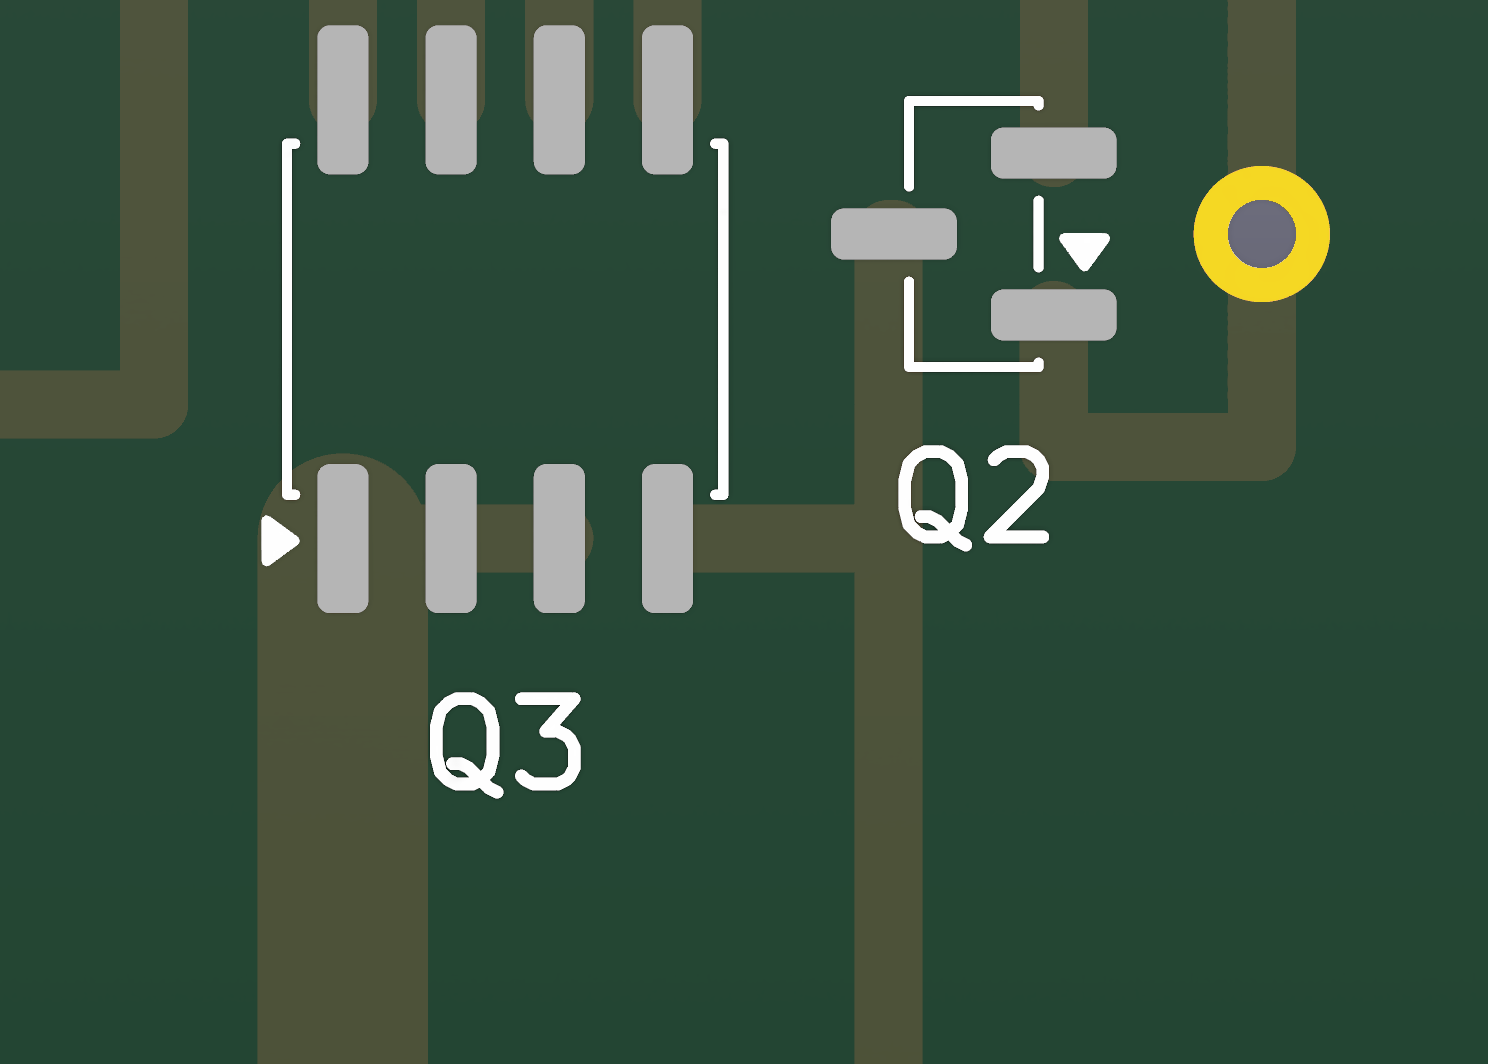
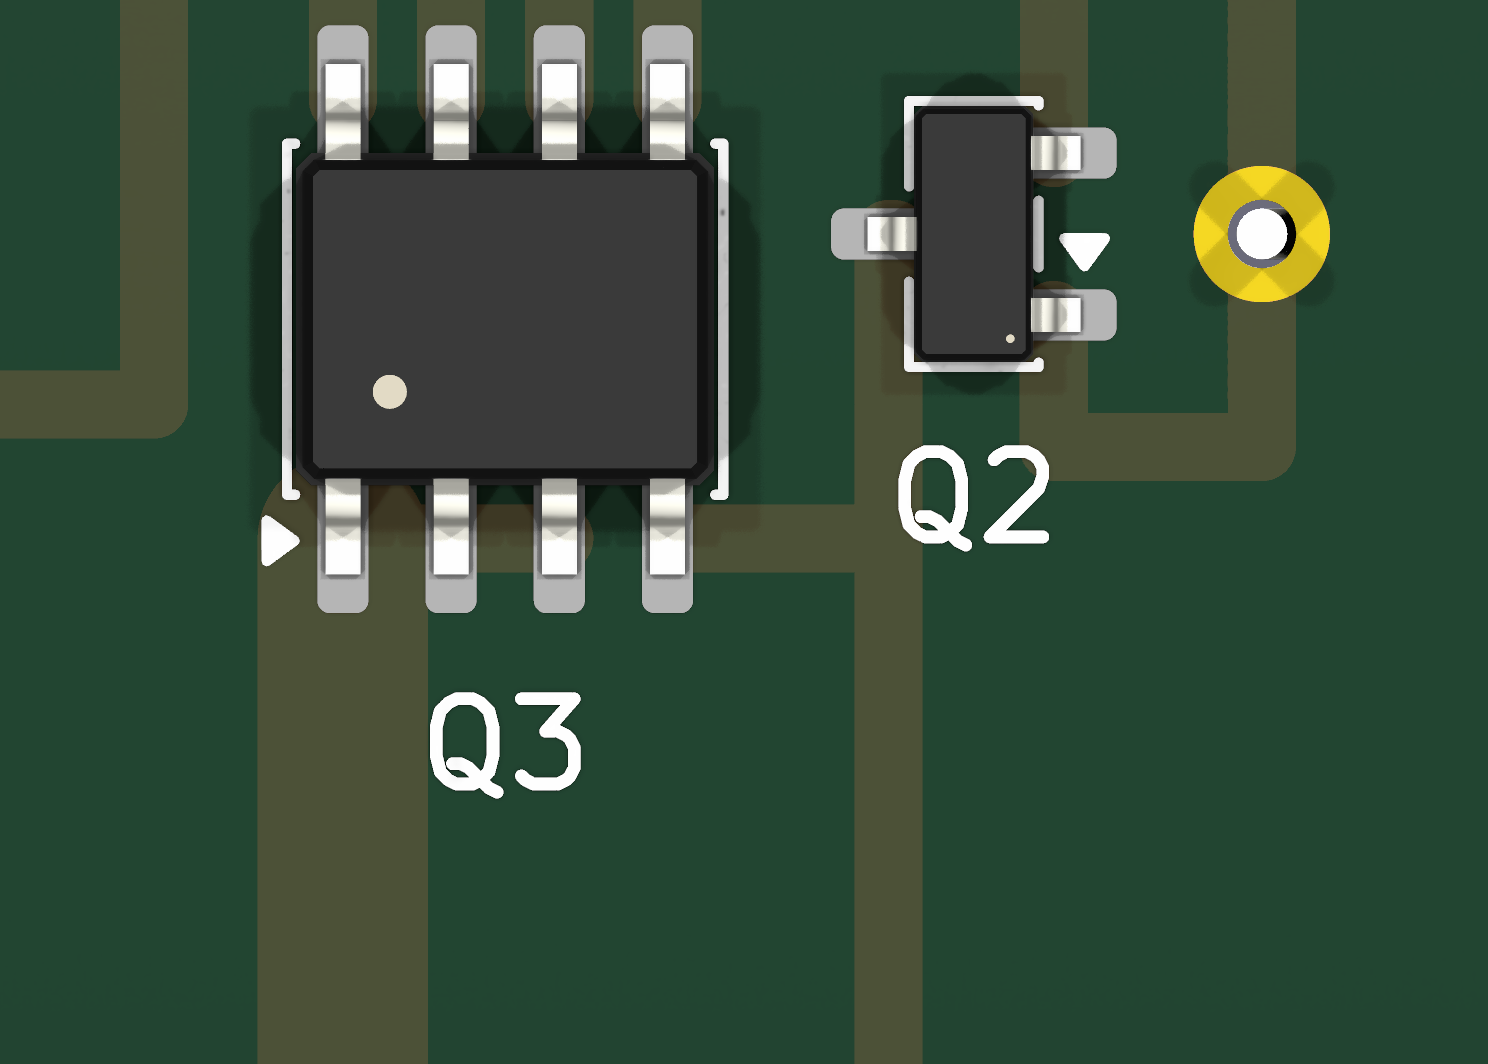
Attach the library 3D models so the SMD parts are visible on the copper side
build_board.py now carries each footprint's library (model ...) block into the
board: SO-8_3.9x4.9mm_P1.27mm, SOT-23, TO-220-3, D_DO-41, the 0207 resistors,
C3/C4 and the pin headers. docs/pcb-render-smd-copper.png is therefore a real
SO-8 lying on the copper with its pin-1 dot next to the silkscreen notch and
pad 1, which is the view you get when you flip the etched board over.

docs/pcb-notes.md: added the datasheet comparison (turn the SO-8 top-view
picture 90 deg counter-clockwise and it is this board) and how to see it in
KiCad: View -> Flip Board View, Ctrl+H cycles display modes. Also a warning
that the .kicad_pcb is generated: after re-running the generator use
File -> Revert in the editor instead of saving.

Gerbers, drill and plots re-exported; the copper draw commands are unchanged
(verified by diffing B_Cu.gbl) and DRC is still 0 violations, 0 unconnected.

diff --git a/pcb/build_board.py b/pcb/build_board.py
@@ -85,7 +85,7 @@ def load_footprint(lib_name: str):
     lib, name = lib_name.split(':')
     txt = (FP_DIR / f"{lib}.pretty" / f"{name}.kicad_mod").read_text()
     tree = sexpr(txt)[0]
-    fp = {'name': tree[1], 'pads': [], 'items': [], 'texts': []}
+    fp = {'name': tree[1], 'pads': [], 'items': [], 'texts': [], 'models': []}
     for it in tree[3:]:
         tag = it[0]
         if tag == 'pad':
@@ -110,6 +110,10 @@ def load_footprint(lib_name: str):
             fp['texts'].append(it)
         elif tag in ('fp_line', 'fp_rect', 'fp_poly', 'fp_circle'):
             fp['items'].append(it)
+        elif tag == 'model':
+            # the library's 3D model, so the 3D viewer and `kicad-cli pcb render`
+            # show the real package on the board
+            fp['models'].append(it)
     return fp
 
 
@@ -559,6 +563,8 @@ def emit_footprint(c: Comp, out):
         if net:
             out.append(f'\t\t\t(net {NET_ID[net]} "{net}")')
         out.append('\t\t)')
+    for m in fp['models']:
+        out.append('\t\t' + sexpr_to_str(m))
     out.append('\t)')
 
 

diff --git a/docs/pcb-notes.md b/docs/pcb-notes.md
@@ -39,6 +39,11 @@ kicad-cli pcb render --side bottom --zoom 4.5 --pivot "-0.03,-0.15,0" --backgrou
         --quality high --width 1500 --height 1100 --output docs/pcb-render-smd-copper.png mosfet-fan-switch.kicad_pcb
 ```
 
+The `.kicad_pcb` is **generated** — `pcb/build_board.py` is the source of truth, not the
+board editor. If the board is open in KiCad while you re-run the generator, KiCad will
+say the file changed on disk: choose **File → Revert** rather than saving, or your
+editor session overwrites everything the script wrote.
+
 Files that matter for making the board:
 
 | file | what it is |
@@ -267,6 +272,20 @@ Numbering runs counter-clockwise around the body and the notch is next to pin 1 
 same relationship the chip has in your hand. `Q2` (SOT-23) in the same view: pad 3
 alone on the left (`/BOOT`, drain), pad 1 (`/LGATE`, gate) and pad 2 (`/GND`, source)
 on the right, with the small silk triangle marking the pad-1 end.
+
+**Against the datasheet.** The IRF7416 datasheet draws the SO-8 in *top view*: S, S, S,
+G down the left edge (1–4) and D, D, D, D up the right edge (5–8, pin 5 at the bottom).
+Turn that picture **90° counter-clockwise** and it is the board above: the left edge
+becomes the near row with pin 1 at the left, the right edge becomes the far row with
+pin 5 at the right. Nothing is mirrored; the chip is simply rotated, because on a
+one-layer board it lies on the copper rather than standing on the component side.
+
+**See it yourself in KiCad.** The footprints now carry their library 3D models, so the
+3D viewer (`View → 3D Viewer`, the teapot icon) shows a real SO-8 and SOT-23 sitting on
+the copper. In the PCB editor, `View → Flip Board View` (and `Ctrl+H` cycles the display
+modes) shows the whole board as if you were looking at it from the bottom — which is the
+view you will actually have while soldering, and the point where `Q3` stops reading
+backwards.
 
 Two things show the copper is right, not just the picture:
 

diff --git a/README.md b/README.md
@@ -442,7 +442,10 @@ stored mirrored, and a top-side view of the board shows them reversed — `Q3` r
 `ƧQ` and pads 1–4 run right-to-left, so that view cannot tell you which pad is pin 1.
 Read the copper-side drawing, not the top render: on the copper side the notch sits
 beside pad 1, and pads 1–3 are the three pads that run straight into the wide +12 V bus.
-`docs/pcb-notes.md` has the picture and the proof.
+Rotate the datasheet's top-view picture 90° counter-clockwise and it is the board. In
+KiCad, `View → Flip Board View` shows the same thing, and the footprints carry their
+3D models so the 3D viewer shows both chips lying on the copper. `docs/pcb-notes.md` has
+the picture and the proof.
 
 The generator's comments and the end of `docs/pcb-notes.md` record the KiCad 10 behaviour
 that had to be pinned down before the DRC would go clean: **a footprint's placement rotation
